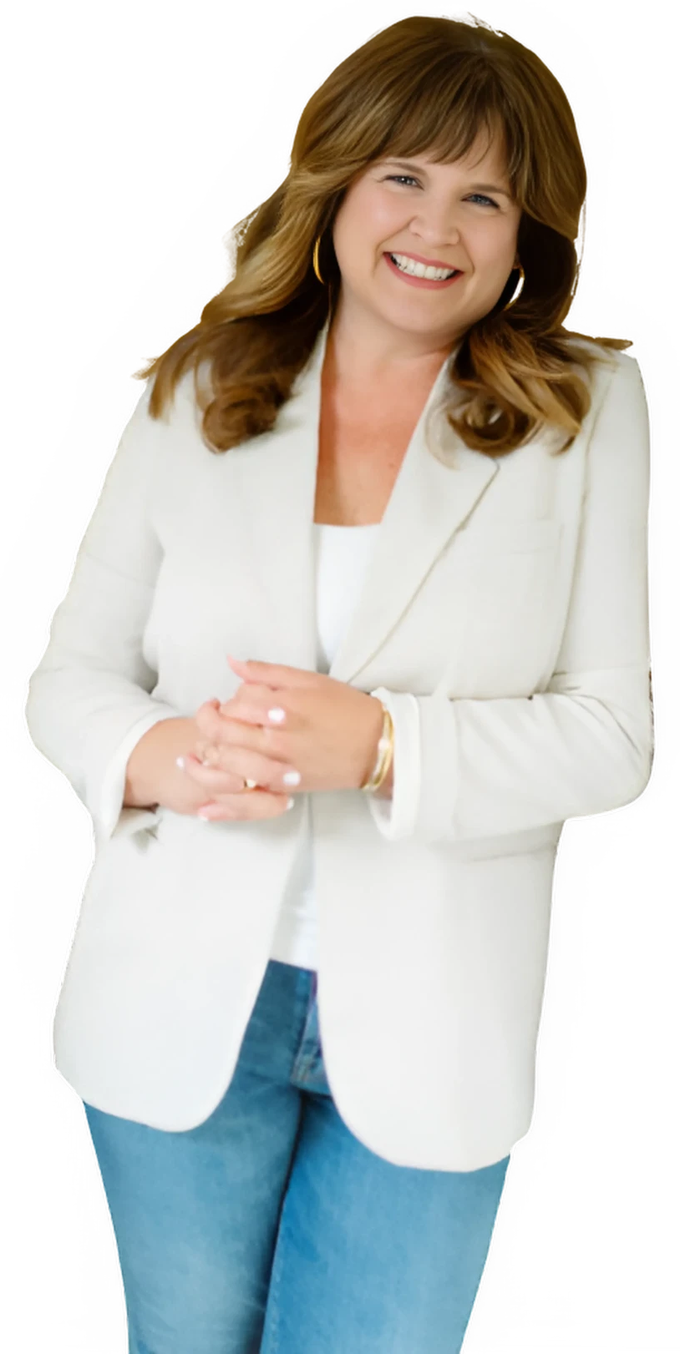
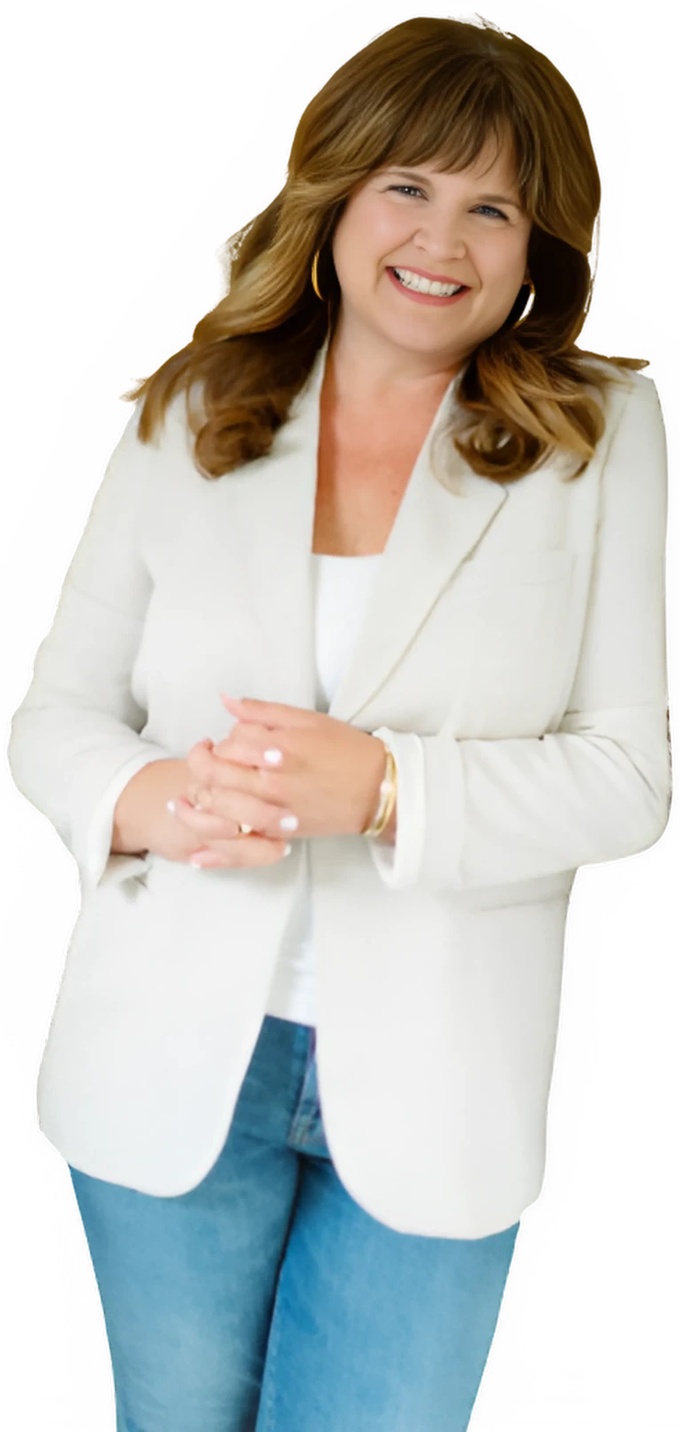
About: headshot closer to the text

diff --git a/fall-to-spring-timeline.html b/fall-to-spring-timeline.html
@@ -66,7 +66,7 @@ input:focus,select:focus,textarea:focus{outline:none;border-color:var(--gold);bo
 .col p{font-size:13.5px;color:#444;margin:0}
 .cindy{background:#fff;padding:40px 0;border-top:1px solid var(--line)}
 .cindy .row{display:grid;grid-template-columns:1fr;gap:24px;align-items:center}
-@media(min-width:700px){.cindy .row{grid-template-columns:340px 1fr;gap:44px;align-items:end}}
+@media(min-width:700px){.cindy .row{grid-template-columns:340px 1fr;gap:28px;align-items:end}.cindy img.hs{margin:0 0 0 auto}}
 .cindy img.hs{width:340px;max-width:85%;display:block;margin:0 auto}
 .cindy p{font-size:14.5px;color:#333;max-width:64ch;margin:0 0 10px}
 .cindy .contact{font-size:13.5px;line-height:1.8;color:#444}

diff --git a/index.html b/index.html
@@ -66,7 +66,7 @@ input:focus,select:focus,textarea:focus{outline:none;border-color:var(--gold);bo
 .col p{font-size:13.5px;color:#444;margin:0}
 .cindy{background:#fff;padding:40px 0;border-top:1px solid var(--line)}
 .cindy .row{display:grid;grid-template-columns:1fr;gap:24px;align-items:center}
-@media(min-width:700px){.cindy .row{grid-template-columns:340px 1fr;gap:44px;align-items:end}}
+@media(min-width:700px){.cindy .row{grid-template-columns:340px 1fr;gap:28px;align-items:end}.cindy img.hs{margin:0 0 0 auto}}
 .cindy img.hs{width:340px;max-width:85%;display:block;margin:0 auto}
 .cindy p{font-size:14.5px;color:#333;max-width:64ch;margin:0 0 10px}
 .cindy .contact{font-size:13.5px;line-height:1.8;color:#444}

diff --git a/privacy.html b/privacy.html
@@ -66,7 +66,7 @@ input:focus,select:focus,textarea:focus{outline:none;border-color:var(--gold);bo
 .col p{font-size:13.5px;color:#444;margin:0}
 .cindy{background:#fff;padding:40px 0;border-top:1px solid var(--line)}
 .cindy .row{display:grid;grid-template-columns:1fr;gap:24px;align-items:center}
-@media(min-width:700px){.cindy .row{grid-template-columns:340px 1fr;gap:44px;align-items:end}}
+@media(min-width:700px){.cindy .row{grid-template-columns:340px 1fr;gap:28px;align-items:end}.cindy img.hs{margin:0 0 0 auto}}
 .cindy img.hs{width:340px;max-width:85%;display:block;margin:0 auto}
 .cindy p{font-size:14.5px;color:#333;max-width:64ch;margin:0 0 10px}
 .cindy .contact{font-size:13.5px;line-height:1.8;color:#444}

diff --git a/the-relaunch-plan.html b/the-relaunch-plan.html
@@ -66,7 +66,7 @@ input:focus,select:focus,textarea:focus{outline:none;border-color:var(--gold);bo
 .col p{font-size:13.5px;color:#444;margin:0}
 .cindy{background:#fff;padding:40px 0;border-top:1px solid var(--line)}
 .cindy .row{display:grid;grid-template-columns:1fr;gap:24px;align-items:center}
-@media(min-width:700px){.cindy .row{grid-template-columns:340px 1fr;gap:44px;align-items:end}}
+@media(min-width:700px){.cindy .row{grid-template-columns:340px 1fr;gap:28px;align-items:end}.cindy img.hs{margin:0 0 0 auto}}
 .cindy img.hs{width:340px;max-width:85%;display:block;margin:0 auto}
 .cindy p{font-size:14.5px;color:#333;max-width:64ch;margin:0 0 10px}
 .cindy .contact{font-size:13.5px;line-height:1.8;color:#444}

diff --git a/thinking-about-next-year.html b/thinking-about-next-year.html
@@ -66,7 +66,7 @@ input:focus,select:focus,textarea:focus{outline:none;border-color:var(--gold);bo
 .col p{font-size:13.5px;color:#444;margin:0}
 .cindy{background:#fff;padding:40px 0;border-top:1px solid var(--line)}
 .cindy .row{display:grid;grid-template-columns:1fr;gap:24px;align-items:center}
-@media(min-width:700px){.cindy .row{grid-template-columns:340px 1fr;gap:44px;align-items:end}}
+@media(min-width:700px){.cindy .row{grid-template-columns:340px 1fr;gap:28px;align-items:end}.cindy img.hs{margin:0 0 0 auto}}
 .cindy img.hs{width:340px;max-width:85%;display:block;margin:0 auto}
 .cindy p{font-size:14.5px;color:#333;max-width:64ch;margin:0 0 10px}
 .cindy .contact{font-size:13.5px;line-height:1.8;color:#444}

diff --git a/why-didnt-it-sell.html b/why-didnt-it-sell.html
@@ -66,7 +66,7 @@ input:focus,select:focus,textarea:focus{outline:none;border-color:var(--gold);bo
 .col p{font-size:13.5px;color:#444;margin:0}
 .cindy{background:#fff;padding:40px 0;border-top:1px solid var(--line)}
 .cindy .row{display:grid;grid-template-columns:1fr;gap:24px;align-items:center}
-@media(min-width:700px){.cindy .row{grid-template-columns:340px 1fr;gap:44px;align-items:end}}
+@media(min-width:700px){.cindy .row{grid-template-columns:340px 1fr;gap:28px;align-items:end}.cindy img.hs{margin:0 0 0 auto}}
 .cindy img.hs{width:340px;max-width:85%;display:block;margin:0 auto}
 .cindy p{font-size:14.5px;color:#333;max-width:64ch;margin:0 0 10px}
 .cindy .contact{font-size:13.5px;line-height:1.8;color:#444}
